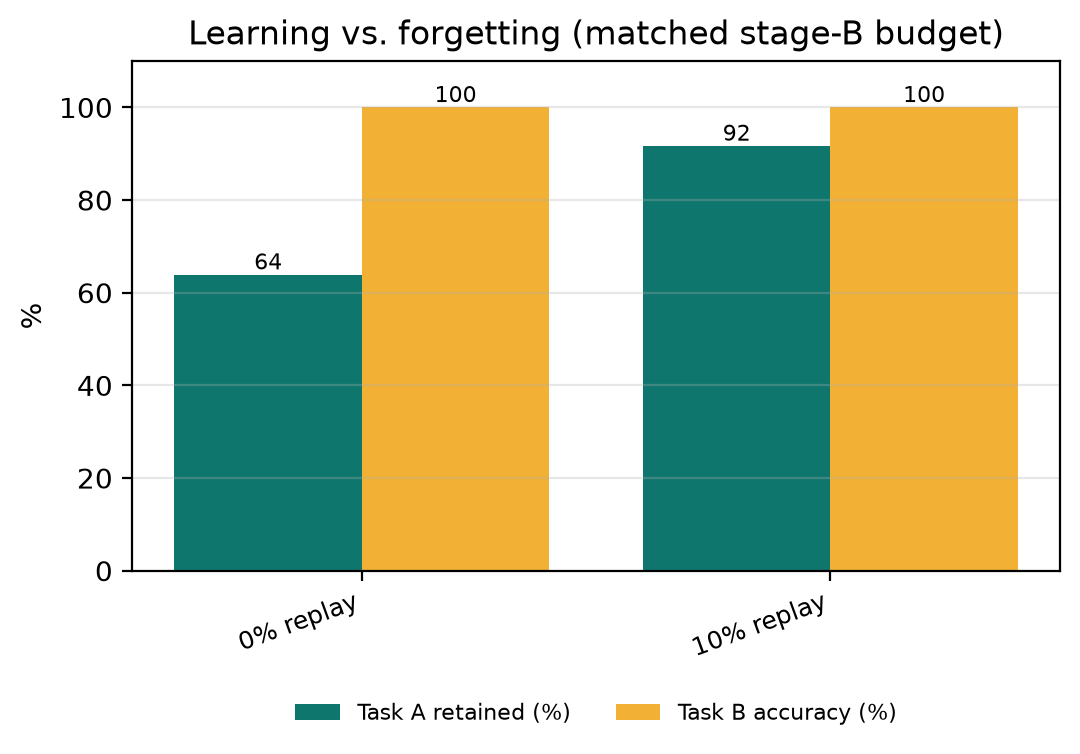
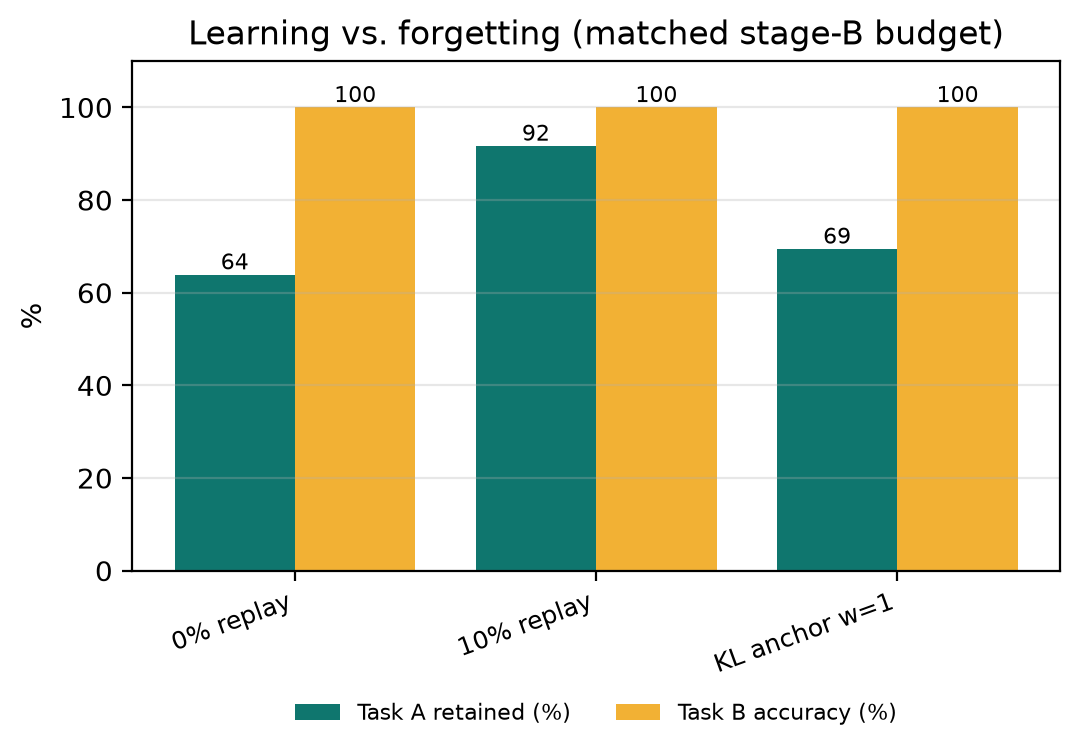
Add seed-44 KL and seed-45 replication
Across seeds 43/44/45: plain A->B 37 new Task A failures, 10% replay 4,
KL anchor 17 (3/11/3, unstable across seeds). Task B 36/36 throughout.

diff --git a/prototype/REPLAY_BASELINE_RESULTS.md b/prototype/REPLAY_BASELINE_RESULTS.md
@@ -31,18 +31,22 @@
 - **The result does not depend on the weight.** All three weights leave the same 3 failures: cedar, fir and pine, all T4 items, again → `R7`. The logged anchor KL stays small (about 0.001–0.05 nats over the last updates), so the anchors themselves are held in place even at w = 0.5.
 - **Interpretation:** pinning outputs on one phrasing (the reference template) does not fully protect the same facts asked in other phrasings (the training-template probes). The forgetting that survives is concentrated on one source label (T4). Replay, which trains on the probes' own grammar, closes the gap; anchoring a single template does not. This points at *which representation* to preserve as the real question, which is exactly what the SAE/activation arms are meant to test.
 
-## Seed 44 replication (fresh mapping, data and LoRA initialization)
+## Replication across seeds 43, 44 and 45
 
-| Replay | Updates | A after A | A after B | New A failures | A retention | B after A | B after B |
-|---:|---:|---:|---:|---:|---:|---:|---:|
-| 0% | 144 | 36/36 | 23/36 | 13 | 0.639 | 8/36 | 36/36 |
-| 10% | 144 | 36/36 | 33/36 | 3 | 0.917 | 8/36 | 36/36 |
+Each seed draws a fresh mapping, fresh data and a fresh LoRA initialization. Cells show new Task A failures out of 36. Task B reaches 36/36 in every run.
 
-![Seed 44](figures/replay_tradeoff_seed44.png)
+| Method | Seed 43 | Seed 44 | Seed 45 | Total (of 108) |
+|---|---:|---:|---:|---:|
+| Plain A→B | 11 | 13 | 13 | 37 |
+| 10% replay | 0 | 3 | 1 | 4 |
+| KL anchor, w = 1 | 3 | 11 | 3 | 17 |
 
-- **Forgetting replicates:** 13 new Task A failures with plain A→B, while Task B reaches 36/36.
-- **10% replay again removes most of it (13 → 3), but not all.** Across the two seeds, 10% replay takes 11 → 0 and 13 → 3, roughly an 88% reduction in new failures, with Task B unaffected.
-- **No single-code collapse here.** Failures spread across V9, R7 and T4 (e.g. oak K2 → R7, cedar R7 → V9, birch V9 → T4). The surviving 10%-replay failures (cedar, pine) both become K2.
+- **Forgetting is consistent:** 11–13 of 36 Task A answers break in every seed.
+- **Replay is robust:** 10% replay removes 89% of new failures across seeds (37 → 4) with no cost to Task B.
+- **The KL anchor is unreliable:** it helps strongly on seeds 43 and 45 (→ 3) but barely on seed 44 (13 → 11), for 54% fewer failures overall. Anchoring outputs on one phrasing does not consistently protect the other phrasings.
+- **The single-code collapse is seed-specific:** on seed 43 every failure becomes `R7`, while seed 44 spreads failures across codes.
+
+Per-seed plots: `figures/replay_tradeoff_seed43.png`, `figures/replay_tradeoff_seed44.png`, `figures/replay_tradeoff_seed45.png`.
 
 ## Release gate on these runs (seed 43)
 
@@ -59,11 +63,11 @@ The gate blocks the plain fine-tune and passes once replay preserves Task A. Sma
 
 ## Caveats
 
-- Two mapping/training seeds for replay (KL on seed 43 only), and only 36 probes per task. The probes are correlated by item: each item appears 3 times.
+- Three mapping/training seeds, and only 36 probes per task. The probes are correlated by item: each item appears 3 times.
 - The probes reuse the training grammar with fresh nonces. Held-out paraphrase templates are weaker (see `SEQUENTIAL_FIRST_DEV_RESULTS.md`), so these results speak to retention of a learned lookup, not paraphrase generalization.
 - Replay here is unusually favorable. The protected behavior is exactly the replayed task, and old training data is available. In real fine-tuning, a user's protected behaviors often have no training data, which is where activation- or feature-based preservation would need to earn its place.
 - The held-out TEST split has not been touched.
 
 ## Implication for the project
 
-The cheap baseline is strong. Any SAE- or activation-preservation method now has to match **10% replay (11 → 0 and 13 → 3 new failures across two seeds)** on this benchmark, or win where replay data isn't available. The KL result shows the gap that remains when only reference prompts exist: 3 failures vs 0. The next comparison should therefore focus on a "no protected training data" condition, where only reference prompts exist, as with the KL anchor, and ask whether activation- or SAE-feature preservation on those same prompts transfers across phrasings better than output-level KL.
+The cheap baseline is strong. Any SAE- or activation-preservation method now has to match **10% replay (37 → 4 new failures across three seeds)** on this benchmark, or win where replay data isn't available. The KL result (37 → 17, and unstable across seeds) shows the gap that remains when only reference prompts exist. The next comparison should therefore focus on a "no protected training data" condition, where only reference prompts exist, as with the KL anchor, and ask whether activation- or SAE-feature preservation on those same prompts transfers across phrasings better than output-level KL.
